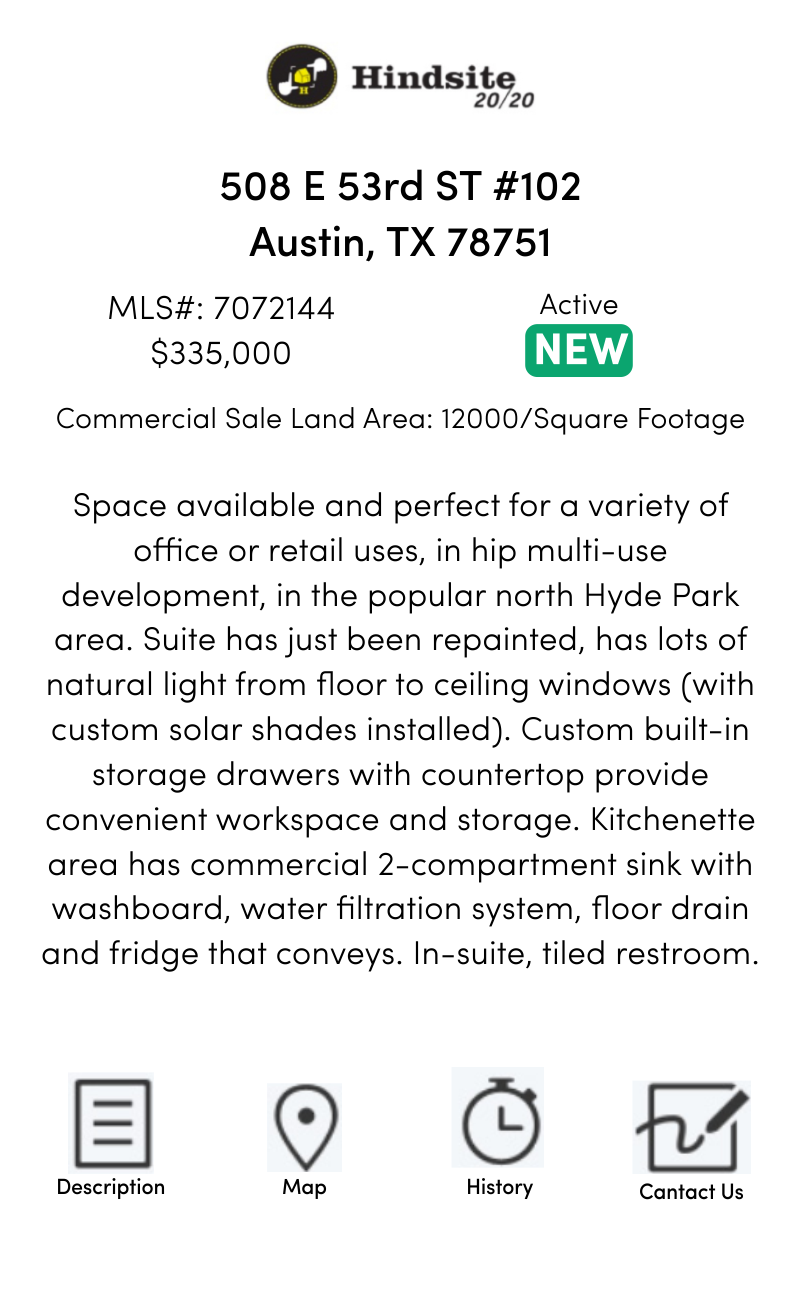
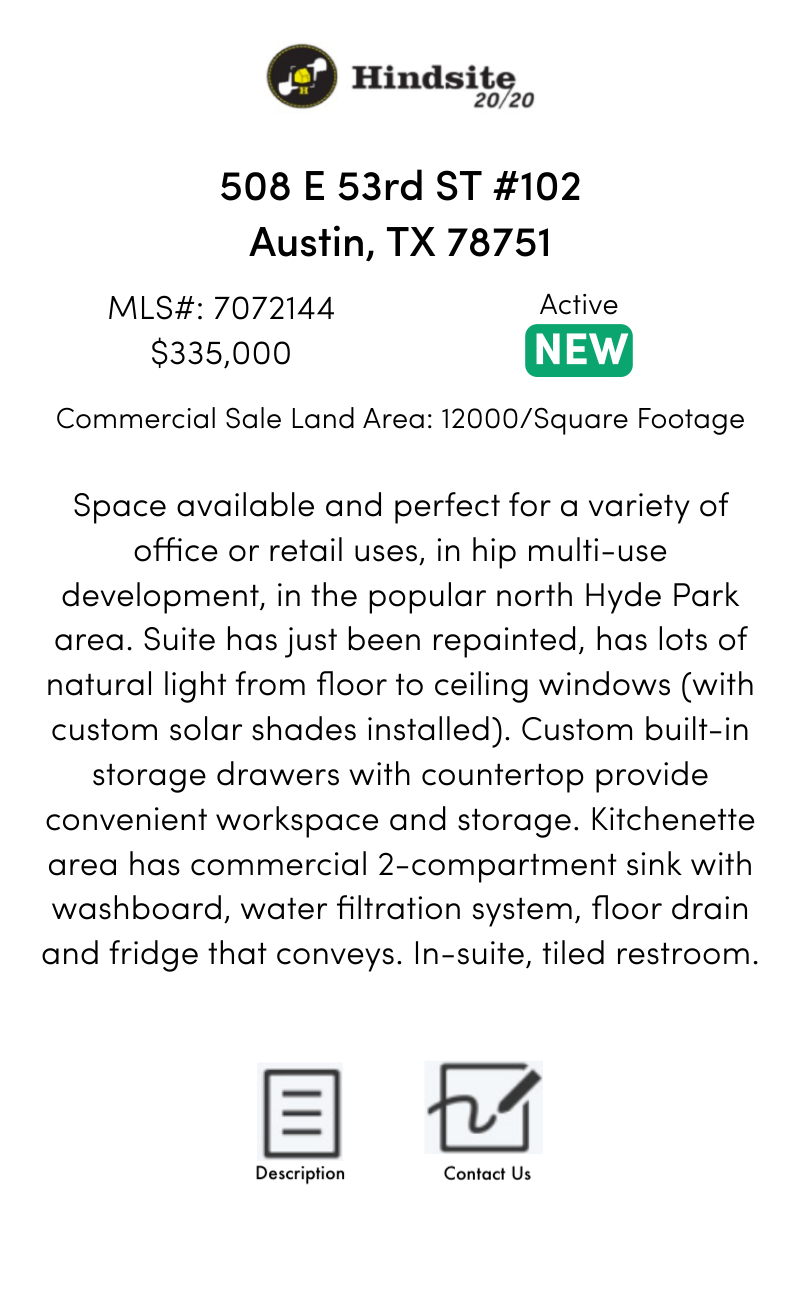
Additional Hindsite demo images

diff --git a/Hindsite_New.html b/Hindsite_New.html
@@ -211,8 +211,9 @@
 
 
     <div class="card fixedcard" > 
-        <img draggable="false" class="heroImage" src="img/hindsite/Hindsite01.png">
-                  <svg class="dogearFixed" width="100" height="120" onclick="window.location.href= 'Hindsite_Back01.html'">
+        <img draggable="false" class="heroImage" width="100%" height="100%" src="img/hindsite/Hindsite01.png">
+        <img style="position:absolute; z-index:10; top: 30%; left: 11%" src="img/hindsite/Hindsite01_opening_overlay.png">
+                  <svg class="dogear" width="100" height="120" onclick="window.location.href= 'Hindsite_Back01.html'">
                     <polygon points="100,0 100,120 0,120" style="fill:rgb(255,255,255)"/>
                     <polygon points="0,0 100,0 0,120" style="fill:rgba(0,0,0,0.3)"/>
                     <text x="5" y="35" font-family="Verdana" font-size="20" fill="white" font-weight="bold">More</text>
@@ -221,9 +222,14 @@
 
     <div class="card fixedcard" > 
         <img draggable="false" class="heroImage" style="width:100%;height:100%" src="img/hindsite/Hindsite02.png">
-          <svg width="100" height="120" style="position:absolute; left:65px; top: 1075px; cursor: pointer;" onclick="window.location.href= 'Hindsite_Back01.html'">
+          <svg width="100" height="120" style="position:absolute; left:250px; top: 1065px; cursor: pointer;" onclick="window.location.href= 'Hindsite_Back01.html'">
             <polygon points="0,0 100,0 100,120 0,120" style="fill: rgba(0,0,0,0);"/>
           </svg>
+          <a href="mailto:KarlHausmann@hindsiteaustin.com">
+          <svg width="100" height="120" style="position:absolute; left:440px; top: 1065px; cursor: pointer;">
+            <polygon points="0,0 100,0 100,120 0,120" style="fill: rgba(0,0,0,0);"/>
+          </svg>
+        </a>
     </div>  
     
 
@@ -234,8 +240,47 @@
             <text x="110" y="55" font-family="Verdana" fill="black" font-size="30" font-weight="" >Custom built herringbone</text>
             <text x="230" y="95" font-family="Verdana" fill="black" font-size="30" >accent wall</text>
           </svg>
-    </div>     
+    </div>
 
+    <div class="card fixedcard" > 
+        <img draggable="false" class="heroImage" style="width:100%;height:100%" src="img/hindsite/Hindsite04.png">
+    </div>
+
+    <div class="card fixedcard" > 
+        <img draggable="false" class="heroImage" style="width:100%;height:100%" src="img/hindsite/Hindsite05.png">
+    </div>         
+
+    <div class="card fixedcard" > 
+        <img draggable="false" class="heroImage" style="width:100%;height:100%" src="img/hindsite/Hindsite06.png">
+    </div> 
+
+    <div class="card fixedcard" > 
+        <img draggable="false" class="heroImage" style="width:100%;height:100%" src="img/hindsite/Hindsite07.png">
+    </div> 
+    
+    <div class="card fixedcard" > 
+        <img draggable="false" class="heroImage" style="width:100%;height:100%" src="img/hindsite/Hindsite08.png">
+    </div>
+
+    <div class="card fixedcard" > 
+        <img draggable="false" class="heroImage" style="width:100%;height:100%" src="img/hindsite/Hindsite09.png">
+    </div> 
+
+    <div class="card fixedcard" > 
+        <img draggable="false" class="heroImage" style="width:100%;height:100%" src="img/hindsite/Hindsite10.png">
+    </div> 
+
+    <div class="card fixedcard" > 
+        <img draggable="false" class="heroImage" style="width:100%;height:100%" src="img/hindsite/Hindsite11.png">
+    </div> 
+
+    <div class="card fixedcard" > 
+        <img draggable="false" class="heroImage" style="width:100%;height:100%" src="img/hindsite/Hindsite12.png">
+    </div> 
+
+    <div class="card fixedcard" > 
+        <img draggable="false" class="heroImage" style="width:100%;height:100%" src="img/hindsite/Hindsite13.png">
+    </div> 
 
 <!--
     <div class="card fixedcard" > 

diff --git a/Hindsite_Back01.html b/Hindsite_Back01.html
@@ -42,6 +42,7 @@
     text-align: left;
     outline: none;
     font-size: 15px;
+    font-weight: bold;
     transition: 0.4s;
 }
 
@@ -54,6 +55,10 @@
     display: none;
     background-color: white;
     overflow: hidden;
+}
+
+td{
+  font-family: Calibri;
 }
 
 </style>
